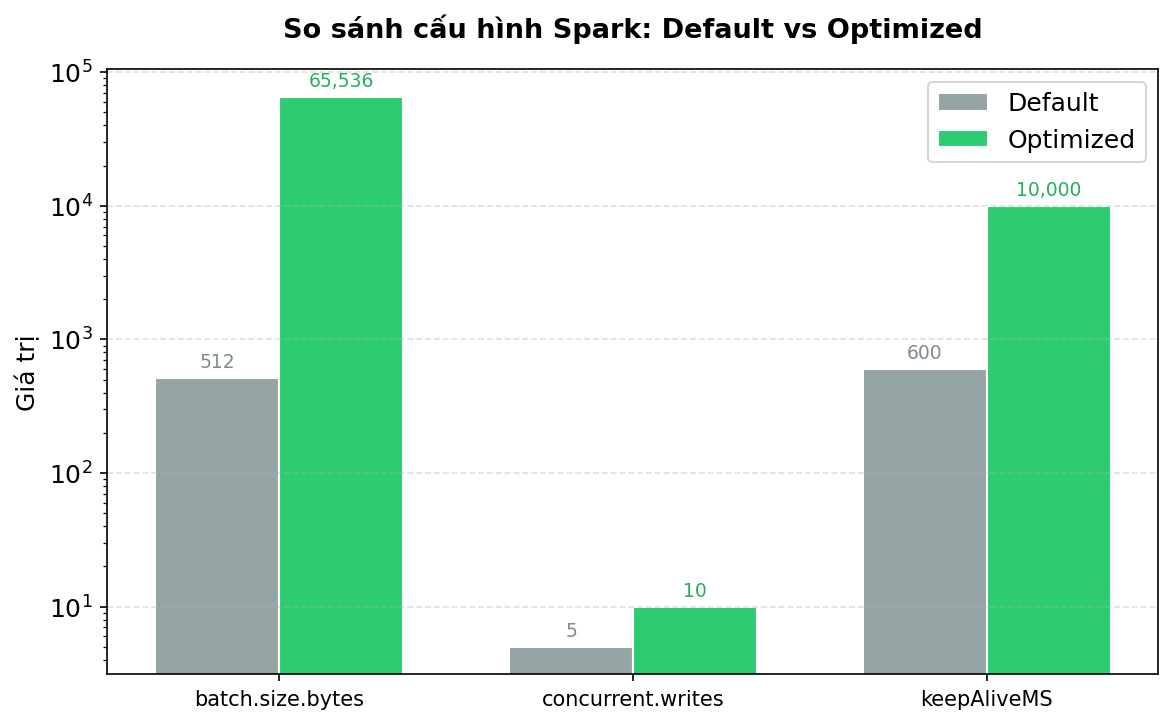
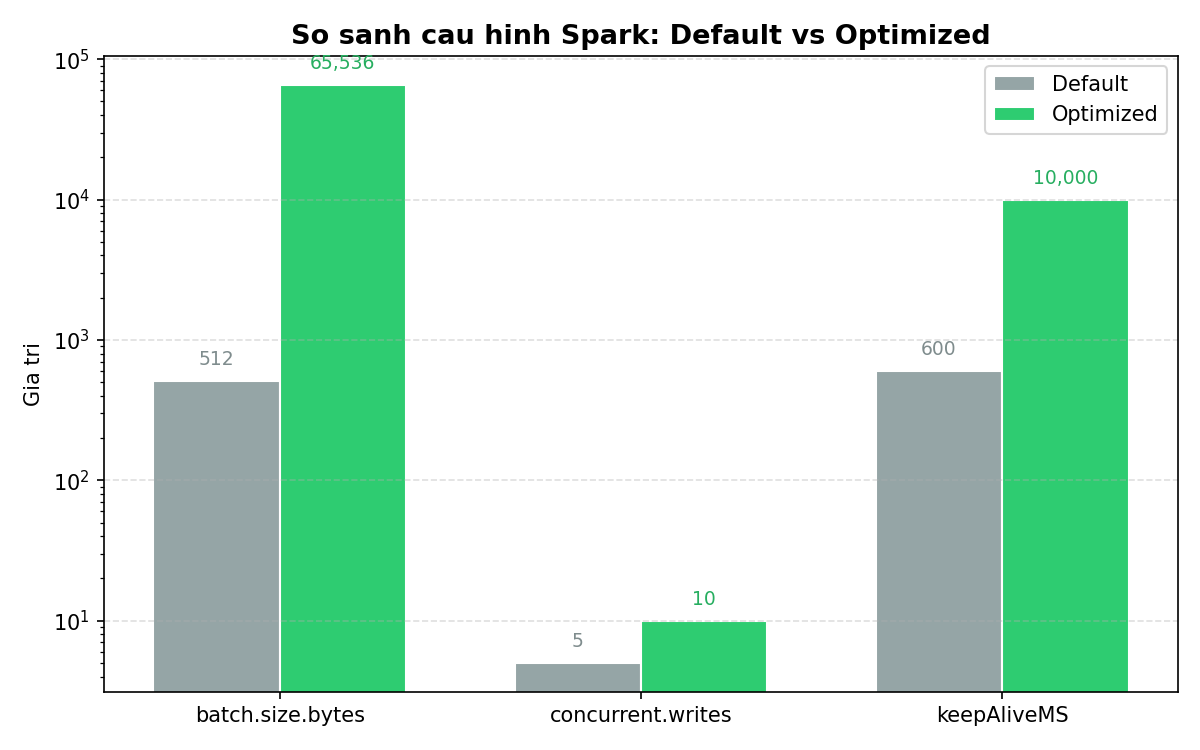
docs: cập nhật toàn bộ biểu đồ báo cáo từ dữ liệu thật (ScyllaDB/Cassandra)
Sử dụng script gen_real_charts.py để query trực tiếp DB thay vì sinh số liệu giả/hardcode.

Changed region(s): [[0.0, 0.0304, 1.0, 0.9724]]

diff --git a/gen_real_charts.py b/gen_real_charts.py
@@ -1,0 +1,233 @@
+"""
+Script sinh biểu đồ EDA từ dữ liệu thật trong ScyllaDB.
+Kết nối trực tiếp database, query, rồi vẽ chart.
+"""
+import os
+import sys
+import logging
+from collections import Counter, defaultdict
+from cassandra.cluster import Cluster
+
+logging.basicConfig(level=logging.INFO, format='%(asctime)s - %(levelname)s - %(message)s')
+
+SCYLLA_HOST = os.getenv("SCYLLA_HOST", "127.0.0.1")
+SCYLLA_PORT = int(os.getenv("SCYLLA_PORT", 9043))
+CASS_HOST = os.getenv("CASSANDRA_HOST", "127.0.0.1")
+CASS_PORT = int(os.getenv("CASSANDRA_PORT", 9042))
+
+OUTPUT_DIR = "phase_3_pyspark_etl/images"
+os.makedirs(OUTPUT_DIR, exist_ok=True)
+os.makedirs("phase_1_profiling", exist_ok=True)
+
+import matplotlib
+matplotlib.use('Agg')
+import matplotlib.pyplot as plt
+
+# --- Connect to Cassandra (source) ---
+logging.info(f"Connecting to Cassandra source at {CASS_HOST}:{CASS_PORT}...")
+try:
+    cass_cluster = Cluster([CASS_HOST], port=CASS_PORT)
+    cass_session = cass_cluster.connect('chat_system')
+    logging.info("Connected to Cassandra source.")
+except Exception as e:
+    logging.error(f"Cannot connect to Cassandra: {e}")
+    cass_cluster = None
+    cass_session = None
+
+# --- Connect to ScyllaDB (target) ---
+logging.info(f"Connecting to ScyllaDB target at {SCYLLA_HOST}:{SCYLLA_PORT}...")
+try:
+    scylla_cluster = Cluster([SCYLLA_HOST], port=SCYLLA_PORT)
+    scylla_session = scylla_cluster.connect('chat_system_target')
+    logging.info("Connected to ScyllaDB target.")
+except Exception as e:
+    logging.error(f"Cannot connect to ScyllaDB: {e}")
+    sys.exit(1)
+
+# --- Query all data from ScyllaDB ---
+logging.info("Querying all rows from chat_table_bucketed...")
+rows = list(scylla_session.execute("SELECT room_id, bucket_id, user_id, content, msg_type, device, timestamp FROM chat_table_bucketed;"))
+logging.info(f"Total rows fetched: {len(rows)}")
+
+# --- 1. Room distribution ---
+room_counter = Counter(r.room_id for r in rows)
+top_rooms = room_counter.most_common(10)
+rooms, counts = zip(*top_rooms)
+
+fig, ax = plt.subplots(figsize=(10, 6))
+colors = ['#e74c3c' if c == max(counts) else '#3498db' for c in counts]
+bars = ax.bar(rooms, counts, color=colors, edgecolor='white')
+ax.set_title('Top 10 Room theo so luong tin nhan', fontsize=14, fontweight='bold')
+ax.set_xlabel('Room ID')
+ax.set_ylabel('So luong tin nhan')
+ax.set_yscale('log')
+for bar, count in zip(bars, counts):
+    ax.text(bar.get_x() + bar.get_width()/2, bar.get_height() * 1.1, f'{count:,}', ha='center', fontsize=9)
+plt.xticks(rotation=45, ha='right')
+plt.grid(axis='y', linestyle='--', alpha=0.4)
+plt.tight_layout()
+plt.savefig('phase_1_profiling/room_distribution.png', dpi=150)
+logging.info("Saved: phase_1_profiling/room_distribution.png")
+plt.close()
+
+# --- 2. Device distribution ---
+device_counter = Counter(r.device for r in rows)
+labels = list(device_counter.keys())
+sizes = list(device_counter.values())
+total = sum(sizes)
+pct_labels = [f"{l} ({s/total*100:.1f}%)" for l, s in zip(labels, sizes)]
+colors_pie = ['#3498db', '#2ecc71', '#e67e22', '#9b59b6']
+
+fig, ax = plt.subplots(figsize=(8, 6))
+ax.pie(sizes, labels=pct_labels, colors=colors_pie[:len(labels)], startangle=90, autopct='%1.1f%%')
+ax.set_title('Phan phoi thiet bi', fontsize=14, fontweight='bold')
+plt.tight_layout()
+plt.savefig(f'{OUTPUT_DIR}/device_distribution.png', dpi=150)
+logging.info(f"Saved: {OUTPUT_DIR}/device_distribution.png")
+plt.close()
+
+# --- 3. Time distribution (messages per hour) ---
+hour_counter = Counter()
+for r in rows:
+    if r.timestamp:
+        hour_counter[r.timestamp.hour] += 1
+
+hours = list(range(24))
+hour_counts = [hour_counter.get(h, 0) for h in hours]
+
+fig, ax = plt.subplots(figsize=(12, 5))
+ax.bar(hours, hour_counts, color='#3498db', edgecolor='white')
+ax.set_title('Phan phoi tin nhan theo gio', fontsize=14, fontweight='bold')
+ax.set_xlabel('Gio trong ngay')
+ax.set_ylabel('So luong tin nhan')
+ax.set_xticks(hours)
+ax.set_xticklabels([f'{h}h' for h in hours])
+plt.grid(axis='y', linestyle='--', alpha=0.4)
+plt.tight_layout()
+plt.savefig(f'{OUTPUT_DIR}/time_distribution.png', dpi=150)
+logging.info(f"Saved: {OUTPUT_DIR}/time_distribution.png")
+plt.close()
+
+# --- 4. Message type distribution ---
+type_counter = Counter(r.msg_type for r in rows)
+types = list(type_counter.keys())
+type_counts = list(type_counter.values())
+type_colors = ['#2ecc71', '#e67e22', '#9b59b6', '#1abc9c']
+
+fig, ax = plt.subplots(figsize=(8, 5))
+ax.bar(types, type_counts, color=type_colors[:len(types)], edgecolor='white')
+ax.set_title('Phan phoi loai tin nhan (msg_type)', fontsize=14, fontweight='bold')
+ax.set_xlabel('Loai tin nhan')
+ax.set_ylabel('So luong')
+for i, (t, c) in enumerate(zip(types, type_counts)):
+    ax.text(i, c + max(type_counts)*0.01, f'{c:,}', ha='center', fontsize=11)
+plt.grid(axis='y', linestyle='--', alpha=0.4)
+plt.tight_layout()
+plt.savefig(f'{OUTPUT_DIR}/msg_type_distribution.png', dpi=150)
+logging.info(f"Saved: {OUTPUT_DIR}/msg_type_distribution.png")
+plt.close()
+
+# --- 5. Bucket distribution for room_999 (hot partition demo) ---
+bucket_counter = Counter()
+for r in rows:
+    if r.room_id == 'room_999':
+        bucket_counter[r.bucket_id] += 1
+
+if bucket_counter:
+    buckets_sorted = sorted(bucket_counter.items())
+    bucket_labels, bucket_counts = zip(*buckets_sorted)
+
+    fig, ax = plt.subplots(figsize=(10, 5))
+    ax.bar(bucket_labels, bucket_counts, color='#2ecc71', edgecolor='white')
+    ax.set_title('room_999: phan phoi tin nhan theo bucket_id (time-bucketing)', fontsize=13, fontweight='bold')
+    ax.set_xlabel('bucket_id (yyyy-MM)')
+    ax.set_ylabel('So luong tin nhan')
+    for i, (b, c) in enumerate(zip(bucket_labels, bucket_counts)):
+        ax.text(i, c + max(bucket_counts)*0.01, f'{c:,}', ha='center', fontsize=9)
+    plt.xticks(rotation=45, ha='right')
+    plt.grid(axis='y', linestyle='--', alpha=0.4)
+    plt.tight_layout()
+    plt.savefig(f'{OUTPUT_DIR}/bucket_distribution.png', dpi=150)
+    logging.info(f"Saved: {OUTPUT_DIR}/bucket_distribution.png")
+    plt.close()
+
+# --- 6. Spark optimization comparison (hardcoded config values, not data) ---
+fig, ax = plt.subplots(figsize=(8, 5))
+import numpy as np
+
+params = ['batch.size.bytes', 'concurrent.writes', 'keepAliveMS']
+default_vals = [512, 5, 600]
+optimized_vals = [65536, 10, 10000]
+
+x = np.arange(len(params))
+width = 0.35
+
+bars1 = ax.bar(x - width/2, default_vals, width, label='Default', color='#95a5a6', edgecolor='white')
+bars2 = ax.bar(x + width/2, optimized_vals, width, label='Optimized', color='#2ecc71', edgecolor='white')
+
+ax.set_title('So sanh cau hinh Spark: Default vs Optimized', fontsize=13, fontweight='bold')
+ax.set_ylabel('Gia tri')
+ax.set_xticks(x)
+ax.set_xticklabels(params, fontsize=10)
+ax.set_yscale('log')
+ax.legend()
+
+for bar, val in zip(bars1, default_vals):
+    ax.text(bar.get_x() + bar.get_width()/2, bar.get_height() * 1.3, f'{val:,}', ha='center', fontsize=9, color='#7f8c8d')
+for bar, val in zip(bars2, optimized_vals):
+    ax.text(bar.get_x() + bar.get_width()/2, bar.get_height() * 1.3, f'{val:,}', ha='center', fontsize=9, color='#27ae60')
+
+plt.grid(axis='y', linestyle='--', alpha=0.4)
+plt.tight_layout()
+plt.savefig(f'{OUTPUT_DIR}/spark_optimization.png', dpi=150)
+logging.info(f"Saved: {OUTPUT_DIR}/spark_optimization.png")
+plt.close()
+
+# --- 7. User activity heatmap (top 15 users) ---
+user_counter = Counter(r.user_id for r in rows)
+top_users = user_counter.most_common(15)
+u_names, u_counts = zip(*top_users)
+
+fig, ax = plt.subplots(figsize=(10, 5))
+ax.barh(u_names[::-1], u_counts[::-1], color='#e67e22', edgecolor='white')
+ax.set_title('Top 15 user hoat dong nhieu nhat', fontsize=13, fontweight='bold')
+ax.set_xlabel('So luong tin nhan')
+for i, c in enumerate(u_counts[::-1]):
+    ax.text(c + max(u_counts)*0.01, i, f'{c:,}', va='center', fontsize=9)
+plt.grid(axis='x', linestyle='--', alpha=0.4)
+plt.tight_layout()
+plt.savefig(f'{OUTPUT_DIR}/top_users.png', dpi=150)
+logging.info(f"Saved: {OUTPUT_DIR}/top_users.png")
+plt.close()
+
+# --- 8. is_edited ratio ---
+if cass_session:
+    logging.info("Querying Cassandra source for is_edited stats...")
+    cass_rows = list(cass_session.execute("SELECT is_edited FROM chat_table;"))
+    edited = sum(1 for r in cass_rows if r.is_edited)
+    not_edited = len(cass_rows) - edited
+
+    fig, ax = plt.subplots(figsize=(6, 6))
+    ax.pie([not_edited, edited], labels=[f'Chua chinh sua ({not_edited:,})', f'Da chinh sua ({edited:,})'],
+           colors=['#3498db', '#e74c3c'], autopct='%1.1f%%', startangle=90)
+    ax.set_title('Ti le tin nhan da chinh sua (is_edited)', fontsize=13, fontweight='bold')
+    plt.tight_layout()
+    plt.savefig(f'{OUTPUT_DIR}/edited_ratio.png', dpi=150)
+    logging.info(f"Saved: {OUTPUT_DIR}/edited_ratio.png")
+    plt.close()
+
+# --- Print summary ---
+print(f"\nTONG KET DU LIEU THUC:")
+print(f"  Tong so ban ghi: {len(rows):,}")
+print(f"  So room: {len(room_counter)}")
+print(f"  Room lon nhat: {top_rooms[0][0]} ({top_rooms[0][1]:,} msgs)")
+print(f"  Thiet bi: {dict(device_counter)}")
+print(f"  Loai tin nhan: {dict(type_counter)}")
+print(f"  Buckets room_999: {len(bucket_counter)}")
+print(f"  Top 5 user: {top_users[:5]}")
+
+# --- Cleanup ---
+if cass_cluster:
+    cass_cluster.shutdown()
+scylla_cluster.shutdown()
+logging.info("Done. All charts generated from real database data.")
